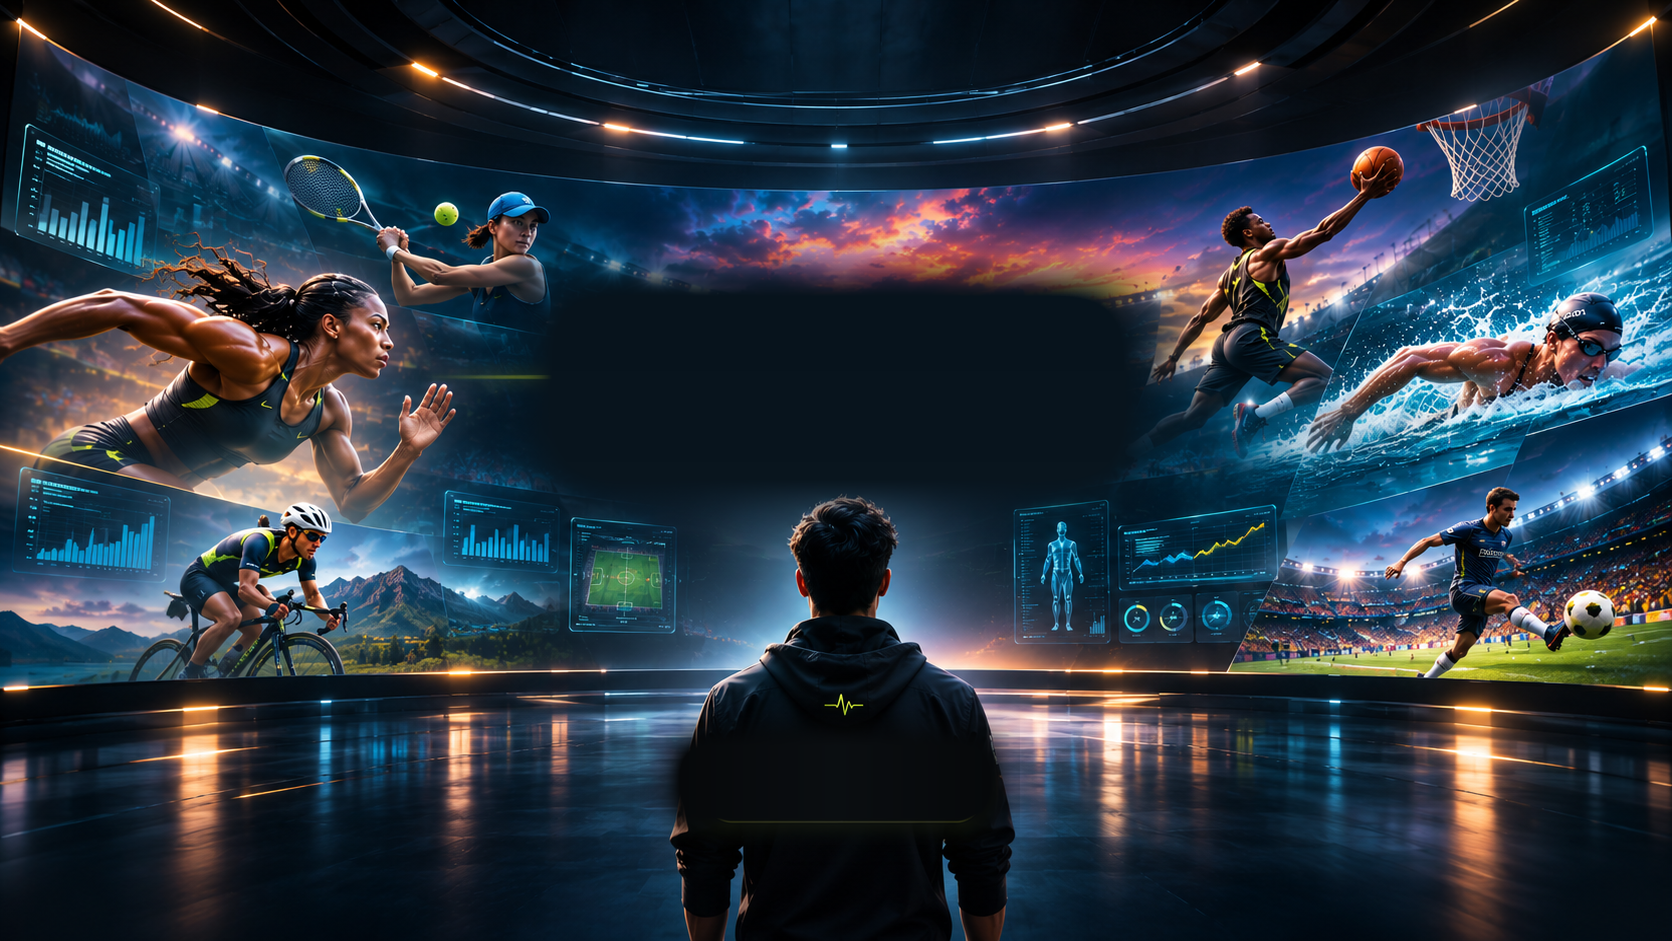
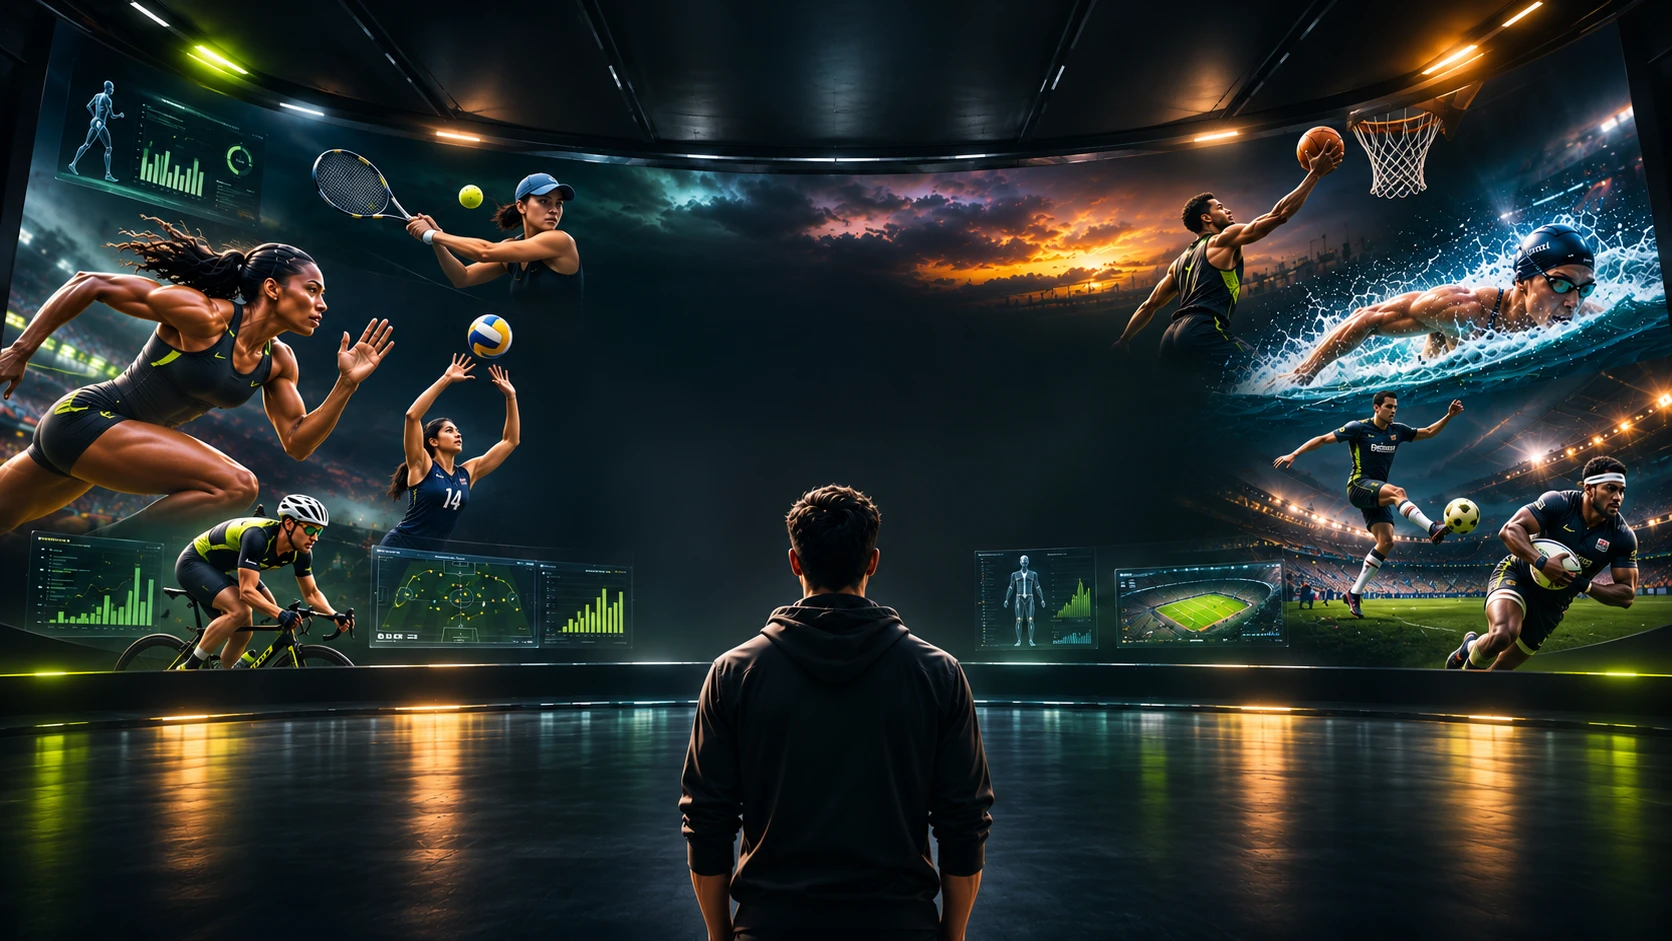
Gateway: final background artwork, recomposed identity, heartbeat fires on enter
- New approved 00-gateway artwork (1672x941) through the build-time WebP pipeline.
- Logo, pulse and Enter Revivo button recomposed for the new dark centre: clear of
  the sunset, the athletes and the observer's head on desktop; panorama + button
  beneath on portrait screens.
- Entering: the heartbeat fires once along the track, the scene fades, then /home
  (about 0.8s; instant with reduced motion).

Claude-Session: https://claude.ai/code/session_01F1RUf5ZQ5HVhPWDPwEZ9Ew

diff --git a/src/components/gateway/Gateway.tsx b/src/components/gateway/Gateway.tsx
@@ -25,7 +25,7 @@ const TRACK = `M 0 ${Y} H ${PX - 34 * 1.2}${pulseSegment(PX, Y, 1.2)} H ${W}`;
  */
 export function Gateway() {
   const router = useRouter();
-  const [leaving, setLeaving] = useState(false);
+  const [phase, setPhase] = useState<"idle" | "firing" | "leaving">("idle");
 
   // Old deep links (/#start, /#explore…) now live on /home: send them straight there.
   useEffect(() => {
@@ -37,12 +37,24 @@ export function Gateway() {
     if (e.metaKey || e.ctrlKey || e.shiftKey || e.altKey || e.button !== 0) return; // new tab etc.
     if (window.matchMedia("(prefers-reduced-motion: reduce)").matches) return;
     e.preventDefault();
-    setLeaving(true);
-    window.setTimeout(() => router.push("/home"), 600);
+    if (phase !== "idle") return;
+    // The heartbeat fires once, the scene fades, and the homepage (and its own pulse) takes over.
+    setPhase("firing");
+    window.setTimeout(() => setPhase("leaving"), 380);
+    window.setTimeout(() => router.push("/home"), 820);
   };
 
   return (
-    <div data-gateway-page className={leaving ? "gateway gw-leaving" : "gateway"}>
+    <div
+      data-gateway-page
+      className={
+        phase === "idle"
+          ? "gateway"
+          : phase === "firing"
+            ? "gateway gw-firing"
+            : "gateway gw-firing gw-leaving"
+      }
+    >
       <div className="gw-stage">
         <style dangerouslySetInnerHTML={{ __html: ART_CSS }} />
         <div aria-hidden="true" className="gw-art photo absolute inset-0 bg-cover bg-center" />

diff --git a/src/app/globals.css b/src/app/globals.css
@@ -442,7 +442,19 @@ body:has([data-gateway-page]) footer {
   z-index: 90;
   overflow: hidden;
   background: var(--color-canvas);
-  transition: opacity 600ms var(--ease-out-quart);
+  transition: opacity 450ms var(--ease-out-quart);
+}
+/* Entering: the heartbeat fires once along the track (gw-firing), then the scene fades. */
+.gateway.gw-firing .gw-light {
+  animation: gw-fire 450ms var(--ease-out-quart) forwards;
+}
+@keyframes gw-fire {
+  from {
+    stroke-dashoffset: 0.12;
+  }
+  to {
+    stroke-dashoffset: -1;
+  }
 }
 .gateway.gw-leaving {
   opacity: 0;
@@ -467,23 +479,23 @@ body:has([data-gateway-page]) footer {
 .gw-identity {
   position: absolute;
   left: 50%;
-  top: 26%;
-  width: 22cqw;
+  top: 28%;
+  width: 18cqw;
   transform: translateX(-50%);
   display: flex;
   flex-direction: column;
   align-items: center;
-  gap: 1.6cqw;
+  gap: 1.2cqw;
 }
 .gw-pulse {
-  width: 30cqw;
+  width: 26cqw;
   height: auto;
   overflow: visible;
 }
 .gw-enter {
   position: absolute;
   left: 50%;
-  top: 45%;
+  top: 42.5%;
   transform: translateX(-50%);
   white-space: nowrap;
 }
@@ -497,7 +509,7 @@ body:has([data-gateway-page]) footer {
     mask-image: linear-gradient(to bottom, transparent 0%, #000 12%, #000 80%, transparent 100%);
   }
   .gw-identity {
-    top: 24%;
+    top: 29%;
     width: 24cqw;
   }
   .gw-pulse {
